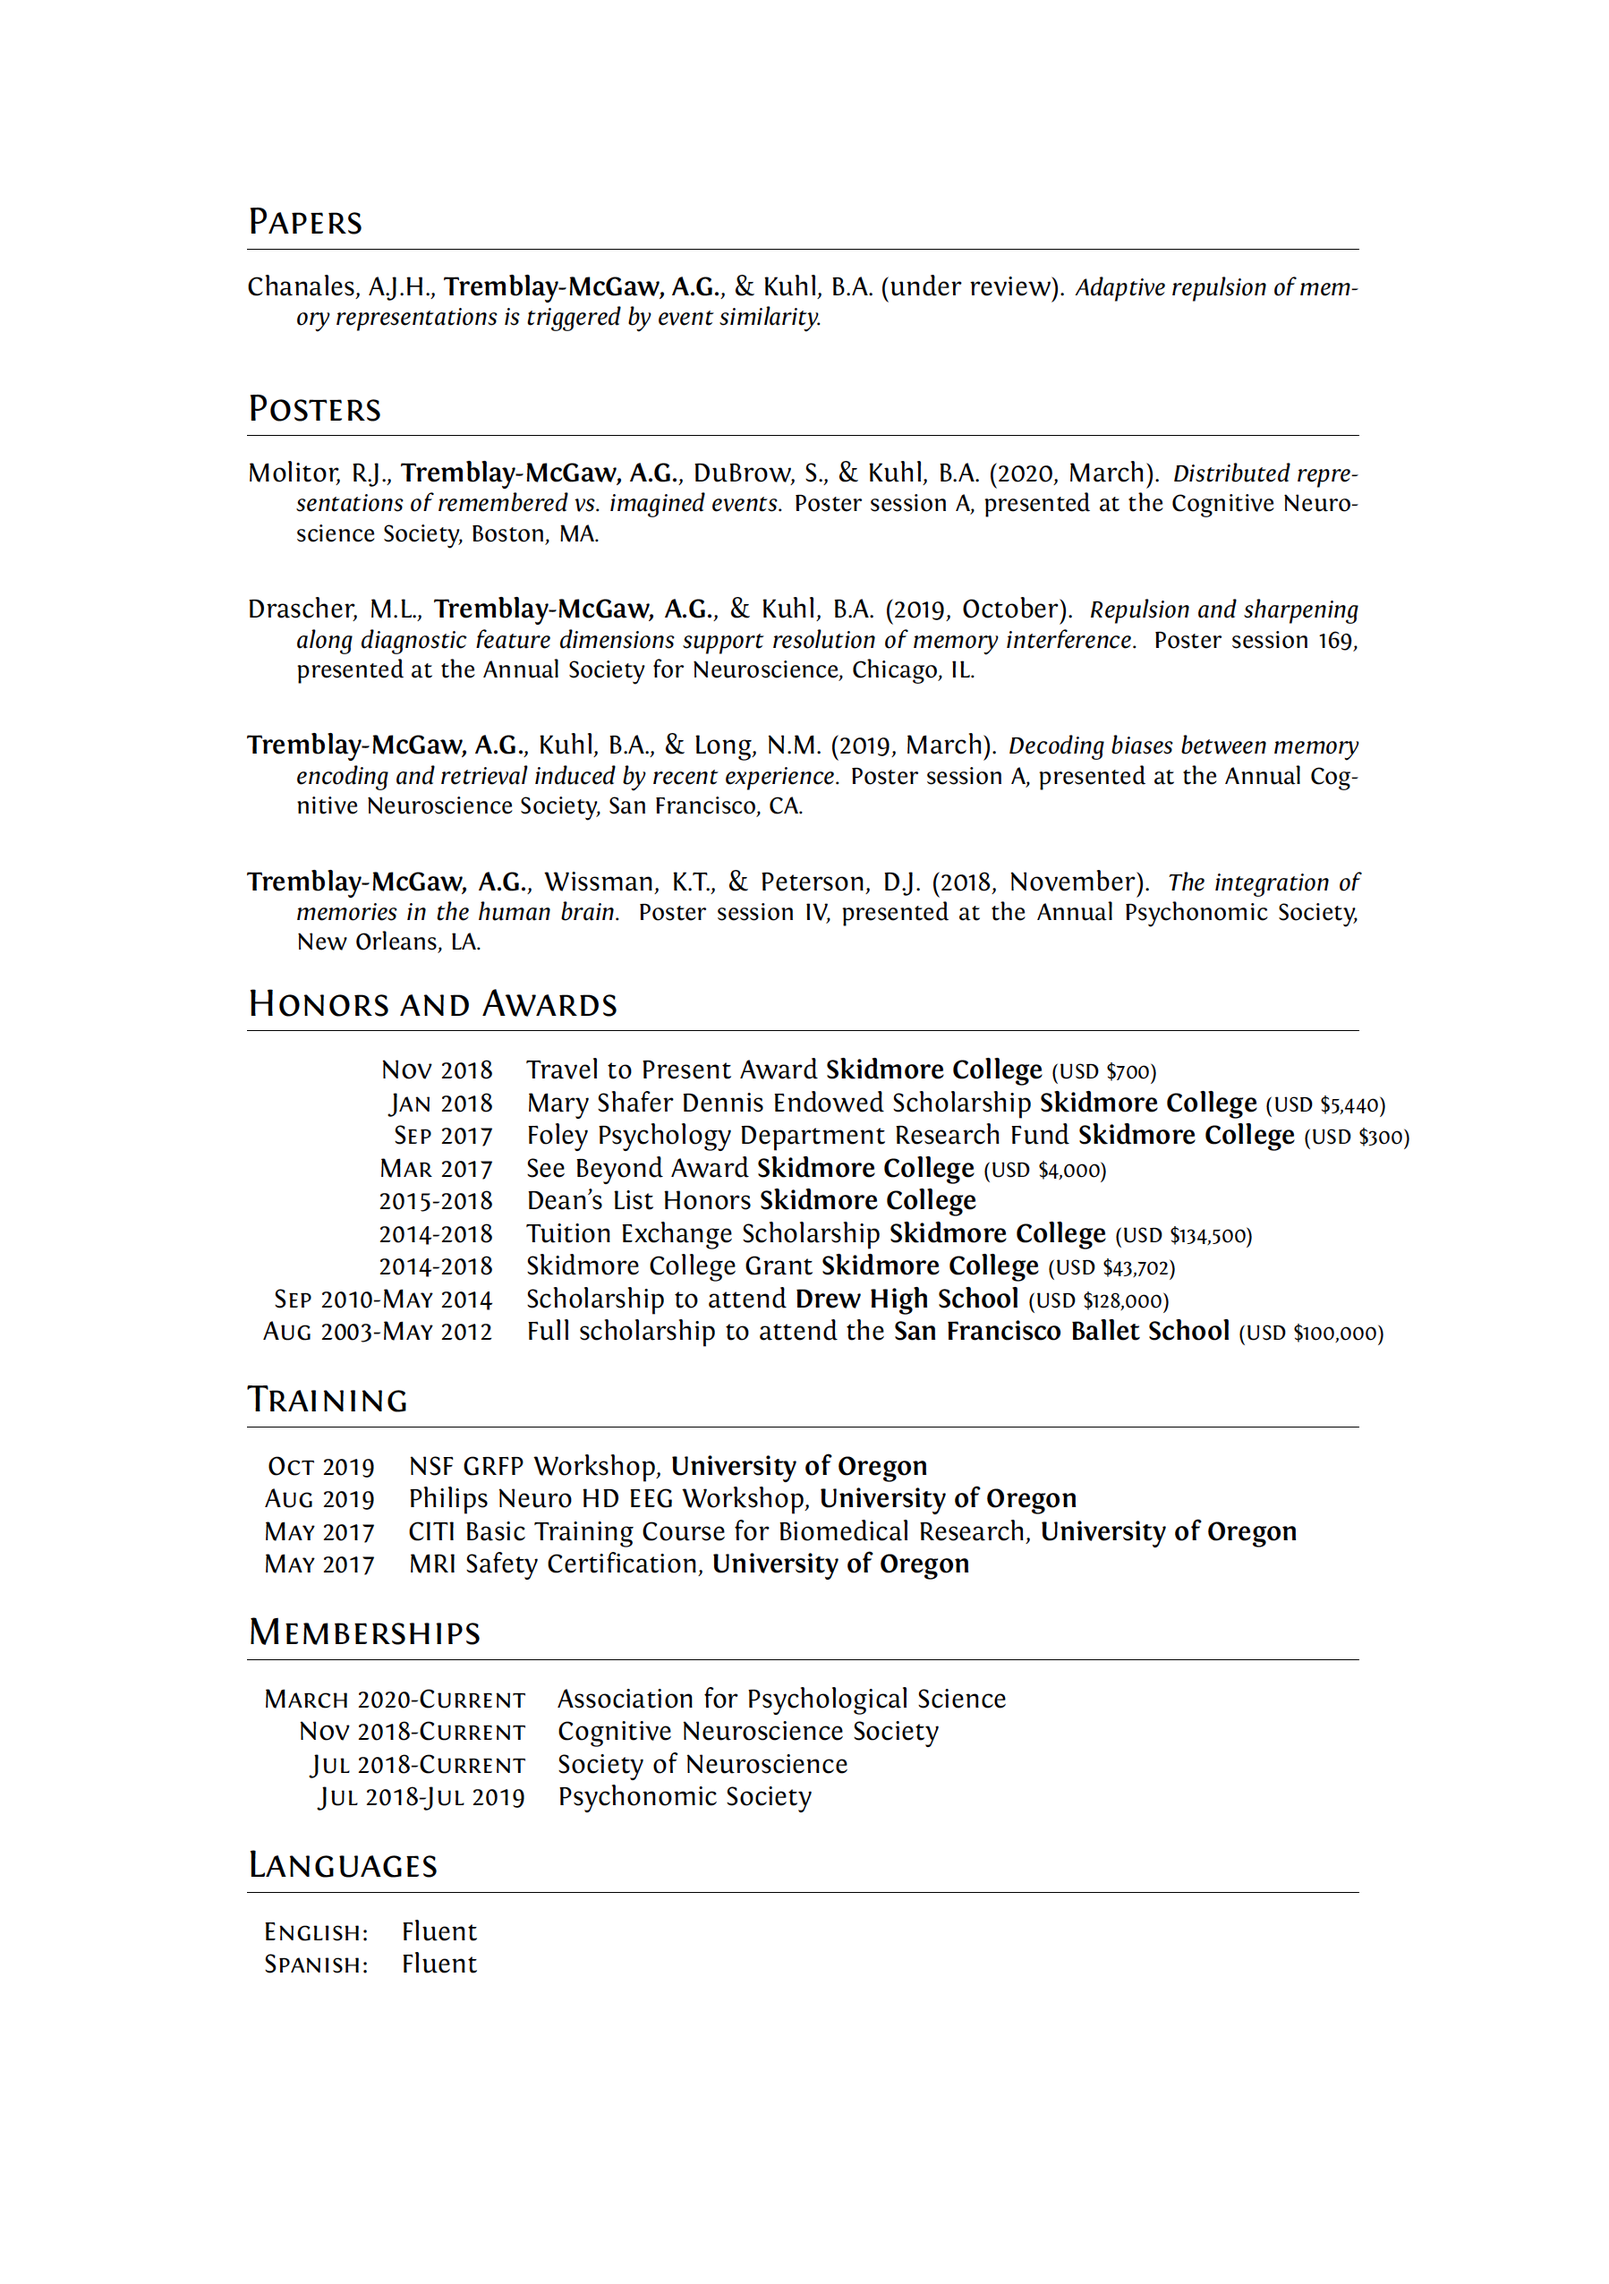
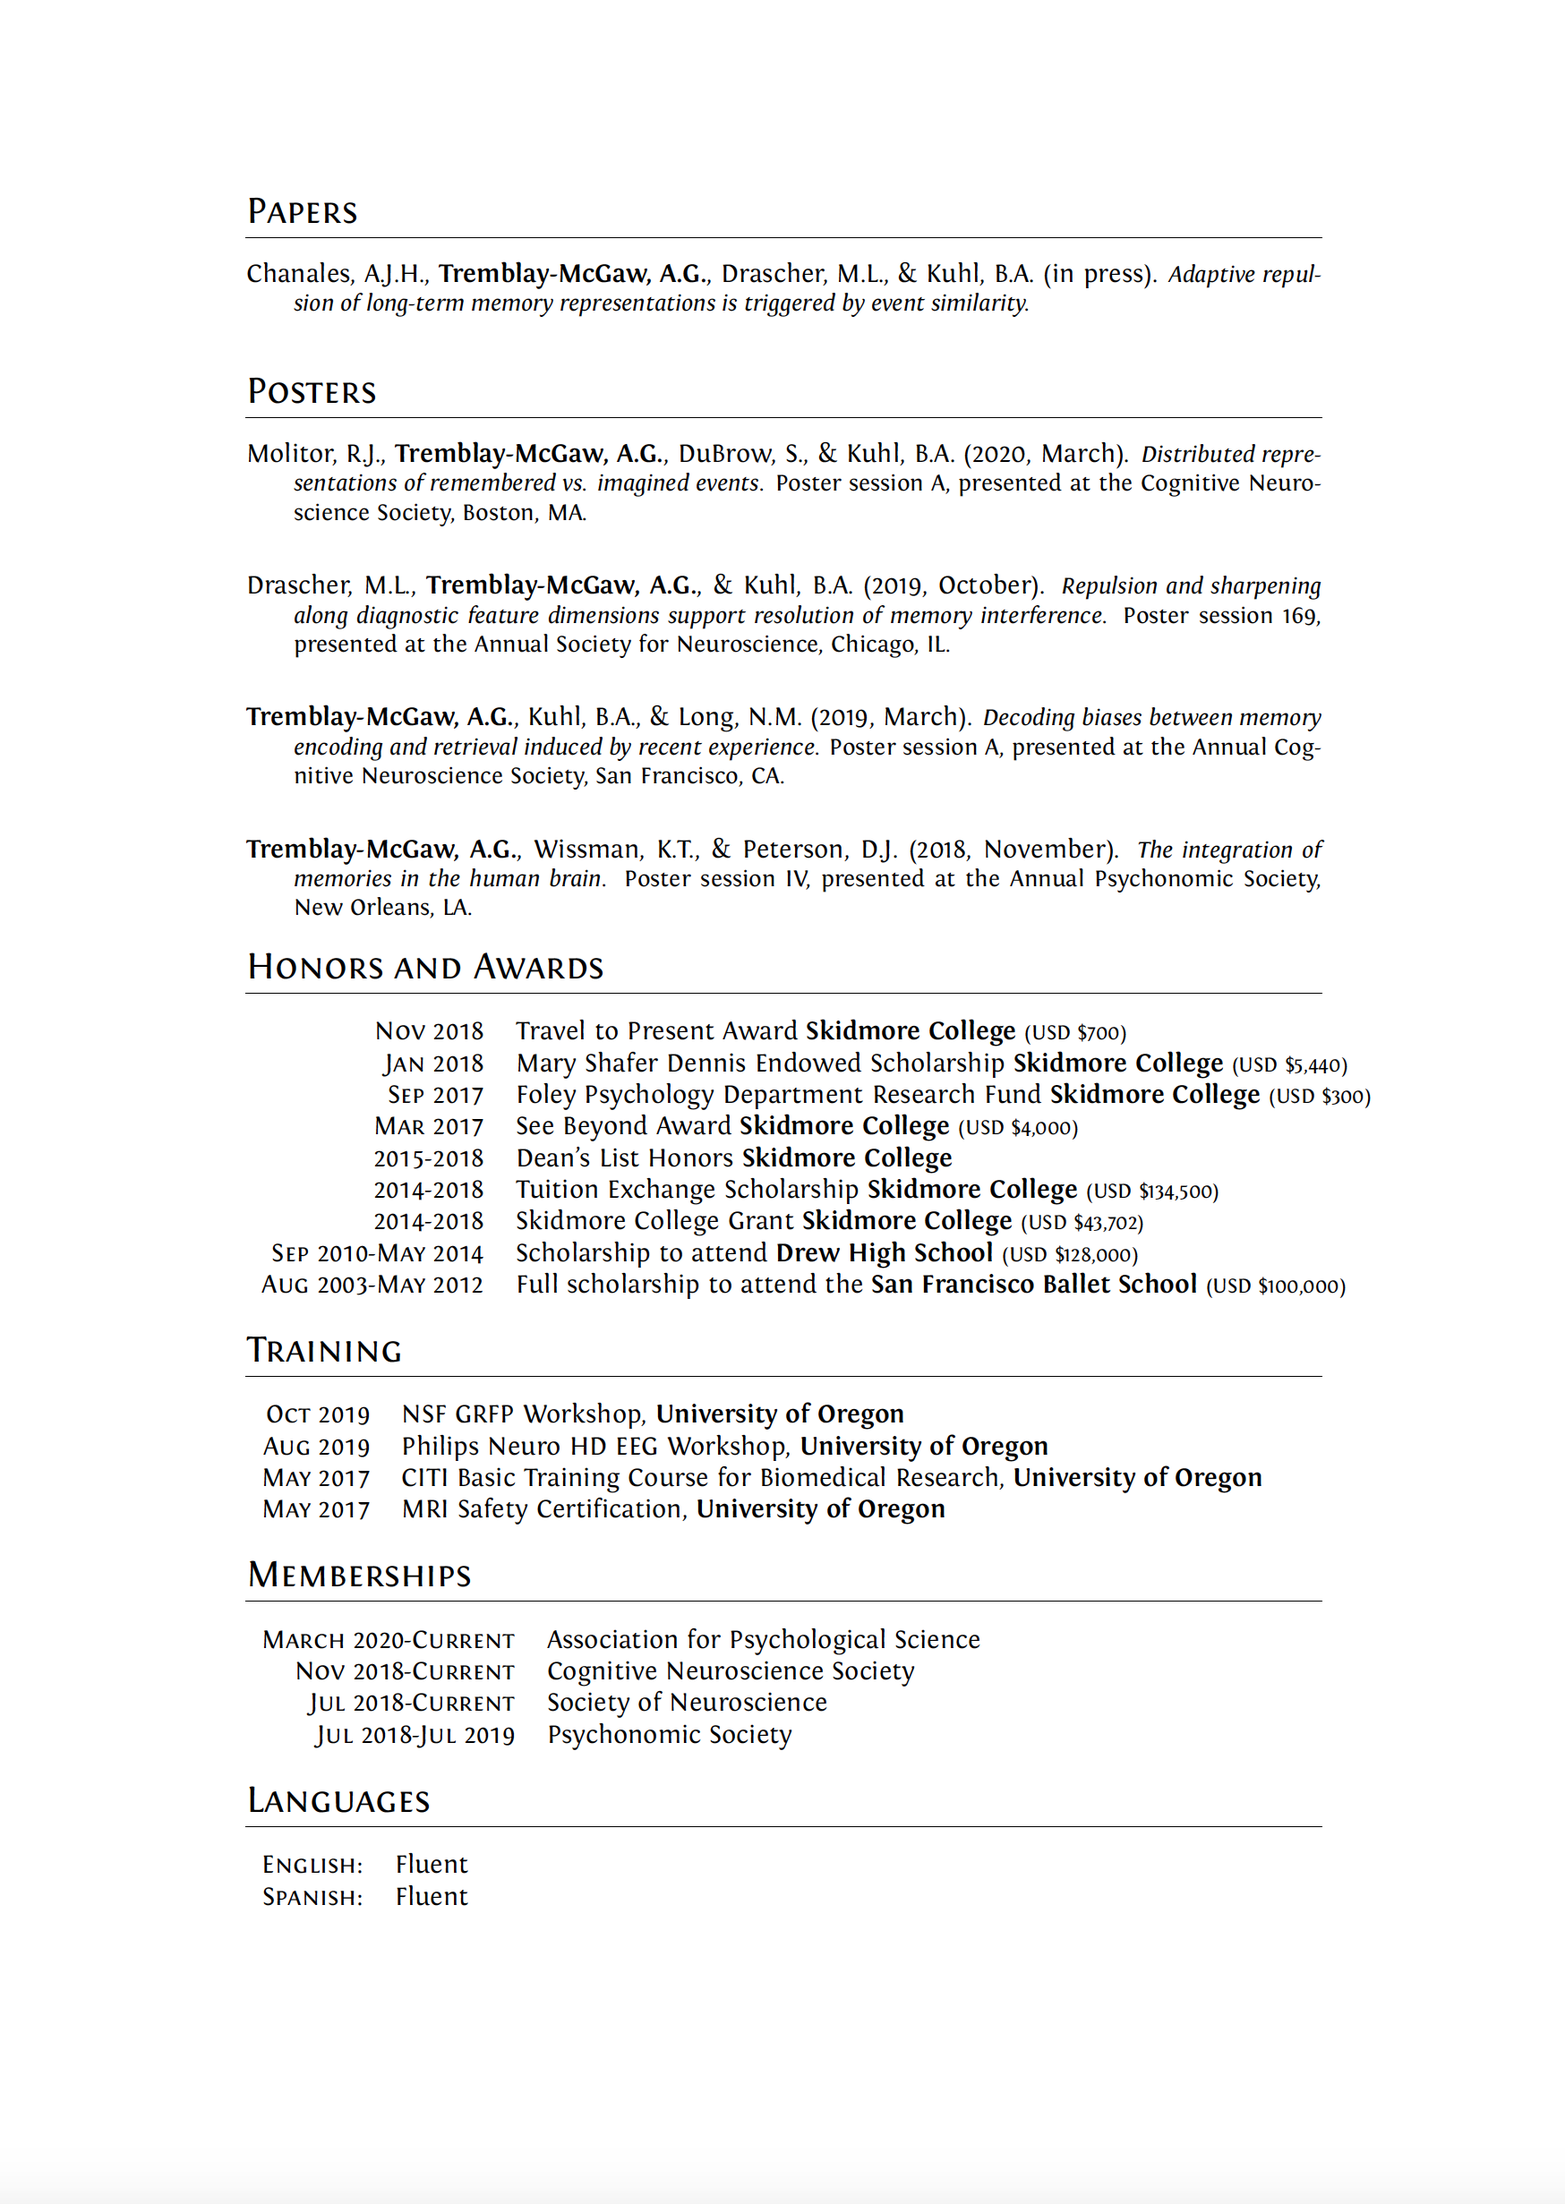
update

Changed region(s): [[0.1545, 0.0926, 0.865, 0.8643]]

diff --git a/Publications.html b/Publications.html
@@ -305,7 +305,7 @@ $(document).ready(function () {
 
 
 <hr />
-<p>Chanales, A.J.H., <strong>Tremblay-McGaw, A.G.</strong>, &amp; Kuhl, B.A. (under review). <i>Adaptive repulsion of memory representations is triggered by event similarity.</i> <a href="pdfs/ChanalesEtal2020.pdf">PDF</a></p>
+<p>Chanales, A.J.H., <strong>Tremblay-McGaw, A.G.</strong>, Drascher, M.L., &amp; Kuhl, B.A. (in press). <i>Adaptive repulsion of long-term memory representations is triggered by event similarity.</i> <a href="pdfs/ChanalesEtal2020.pdf">PDF</a></p>
 <hr />
 
 
